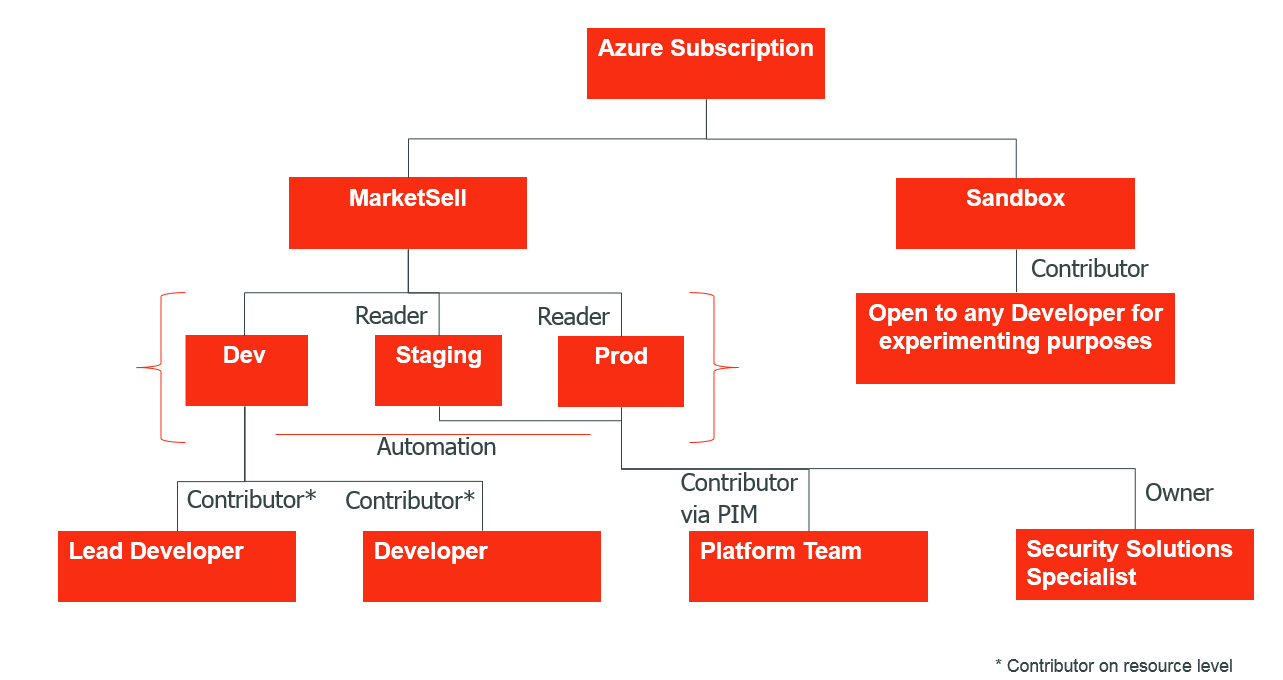
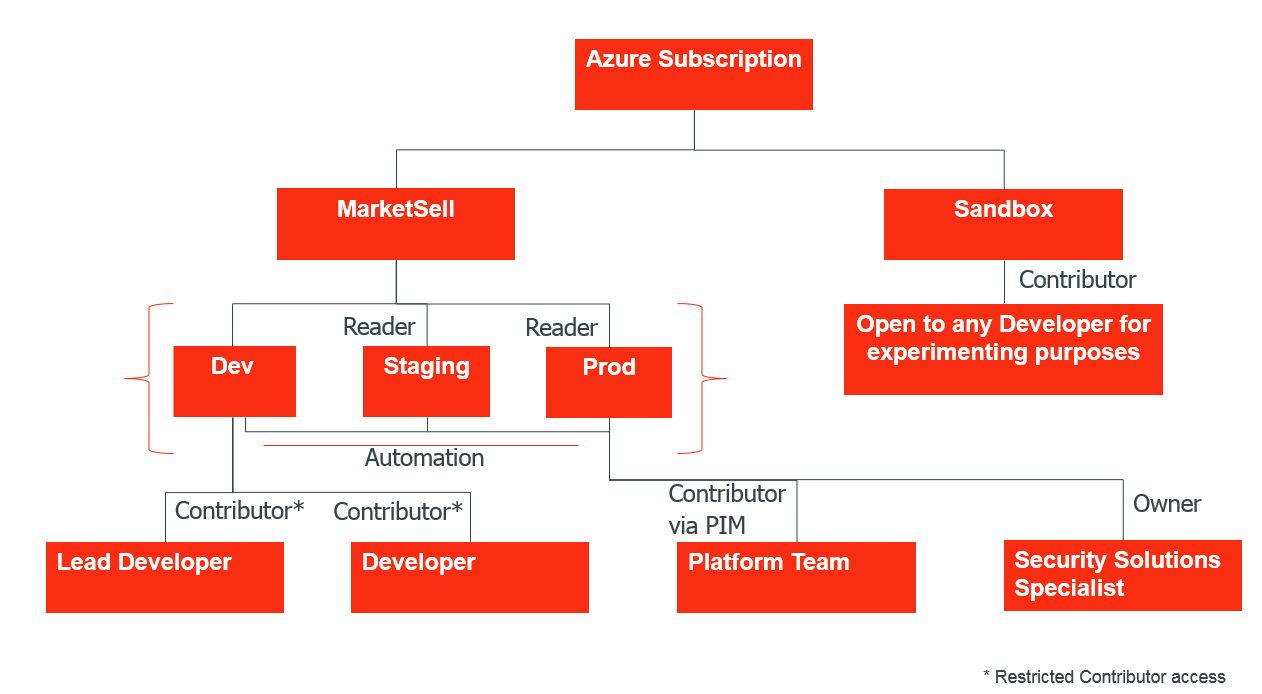
DevOps Overview: Update Access-related Info (#34)

diff --git a/docs/devops/overview.md b/docs/devops/overview.md
@@ -12,7 +12,6 @@ The following list summarizes the different teams and roles that occur in this d
 - Dev team - Development team
 - Lead developer
 - Security Solution Specialist - Security expert embedded at a specific DMC location
-- TCS Support Team
 
 ## Project Workflow
 ![Software Development Phases](images/devops-overview/software-dev-phases.png)
@@ -125,11 +124,11 @@ Note the difference between post-approval performed by AS in the Test stage and 
 ### DevOps Security
 The following workflow shows the basic DevOps workflow in a security context:
 ![Access Overview](images/devops-overview/access-overview.png)
-Dev teams have read-level access to cloud resources by default. In Dev environments, a Dev team has additional contributor-level access to cloud resources. A contributor can apply any modifications on the cloud resource directly from a local workstation. Note that the contributor access in Dev is given on the resource level. Consequently, a developer cannot add or delete resources in the cloud resource group or remove the entire resource group itself.
+Dev teams have read-level access to cloud resources and resource groups by default. In Dev environments, a Dev team has restricted contributor-level access to cloud resources. A contributor can apply any modifications on the cloud resource directly from a local workstation using the Azure portal or other tools. This contributor access is restricted in a way such that developers cannot add or delete resources in a cloud resource group or remove the entire resource group itself. The creation or deletion of resources is supported through the CI/CD automation pipeline using IaC.
 
-The Platform team has full contributor access on the cloud subscription level.
+The Platform team has full contributor access on the cloud subscription level (including resource creation and deletion).
 
-Both Dev and Platform teams have access to the automation management tool (Azure DevOps). Every change in configuration or code needs to go through the complete DevOps pipeline to release to production. 
+Both Dev and Platform teams have access to the automation management tool (Azure DevOps). Every change in configuration or code needs to go through the complete DevOps pipeline to release to production.
 
 ### Access to Environments
 The chart below shows the access given to different roles in the context of environments:
